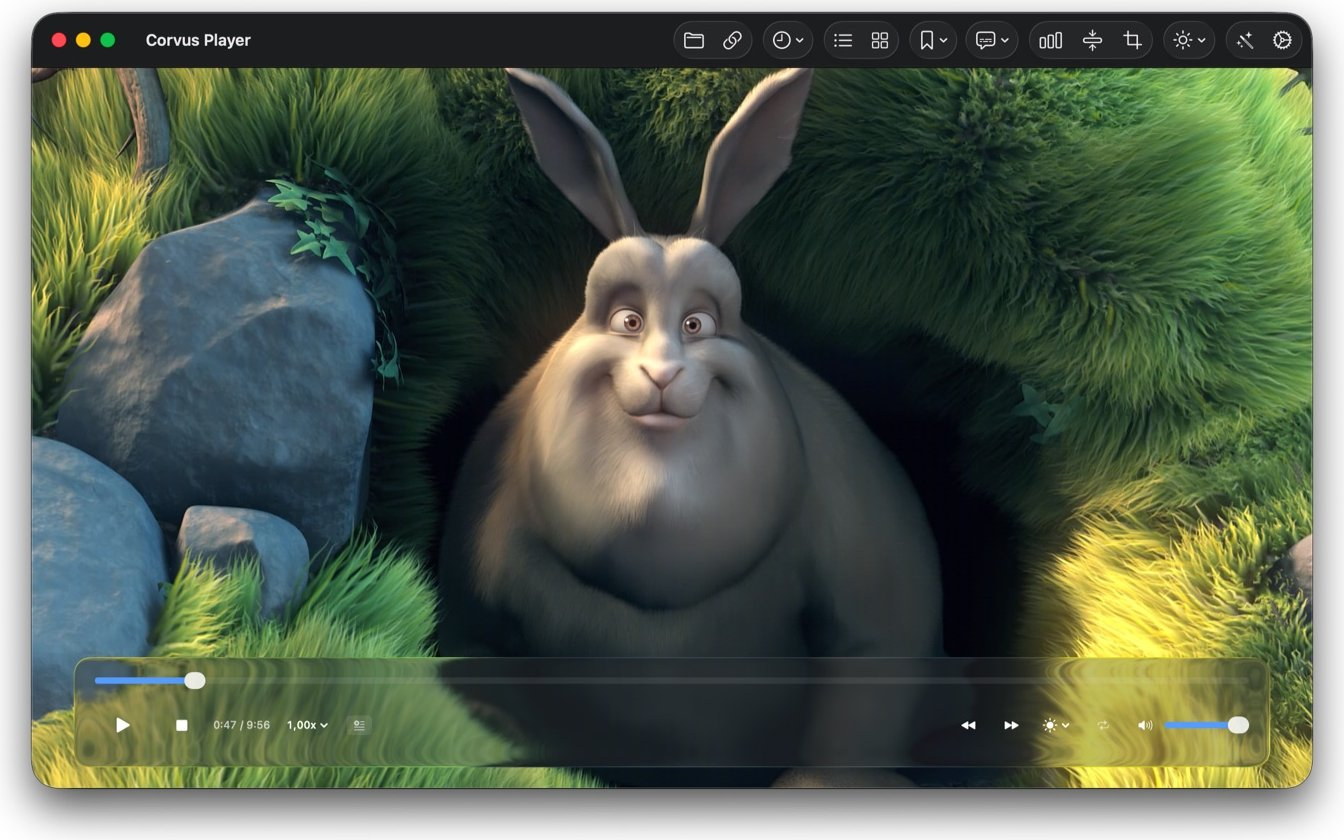
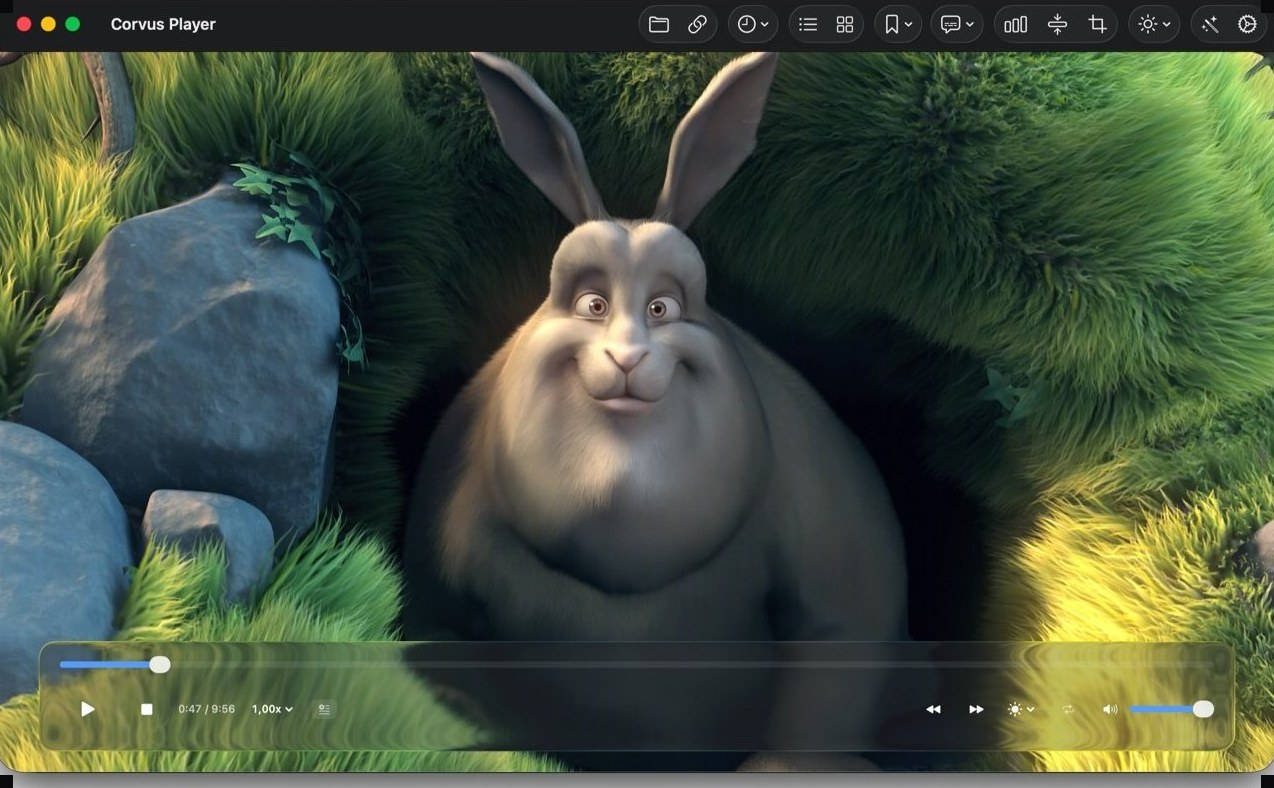
Fix hero: crop white border, paint corners to match dark background

diff --git a/docs/index.html b/docs/index.html
@@ -11,8 +11,8 @@
     <meta property="og:title" content="Corvus Player — Advanced Media Player for macOS">
     <meta property="og:description" content="A powerful, customizable media player for macOS. Hardware-accelerated playback, GLSL shaders, music mode, and streaming support.">
     <meta property="og:image" content="https://corvusdevs.github.io/Corvus-Player/images/hero.jpg">
-    <meta property="og:image:width" content="1344">
-    <meta property="og:image:height" content="840">
+    <meta property="og:image:width" content="1274">
+    <meta property="og:image:height" content="788">
     <meta name="twitter:card" content="summary_large_image">
     <meta name="twitter:title" content="Corvus Player — Advanced Media Player for macOS">
     <meta name="twitter:description" content="A powerful, customizable media player for macOS built on mpv.">
@@ -378,7 +378,7 @@
         <span class="hero-free">macOS 14.0+ &middot; Apple Silicon &amp; Intel</span>
 
         <div class="hero-showcase fade-in">
-            <img src="images/hero.jpg" alt="Corvus Player playing Big Buck Bunny with floating controls" loading="eager" fetchpriority="high" width="1344" height="840" decoding="async">
+            <img src="images/hero.jpg" alt="Corvus Player playing Big Buck Bunny with floating controls" loading="eager" fetchpriority="high" width="1274" height="788" decoding="async">
         </div>
     </section>
 
